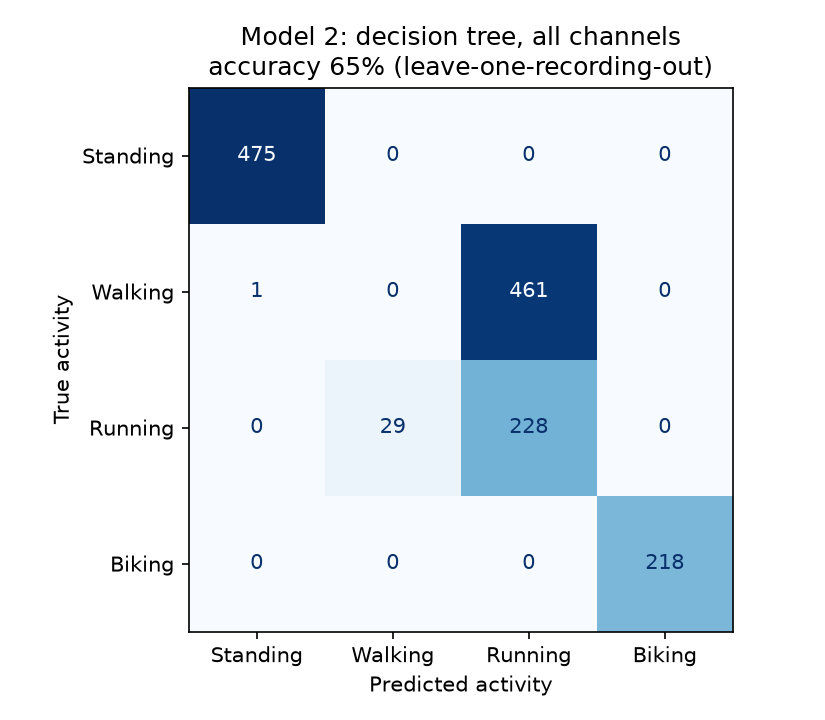
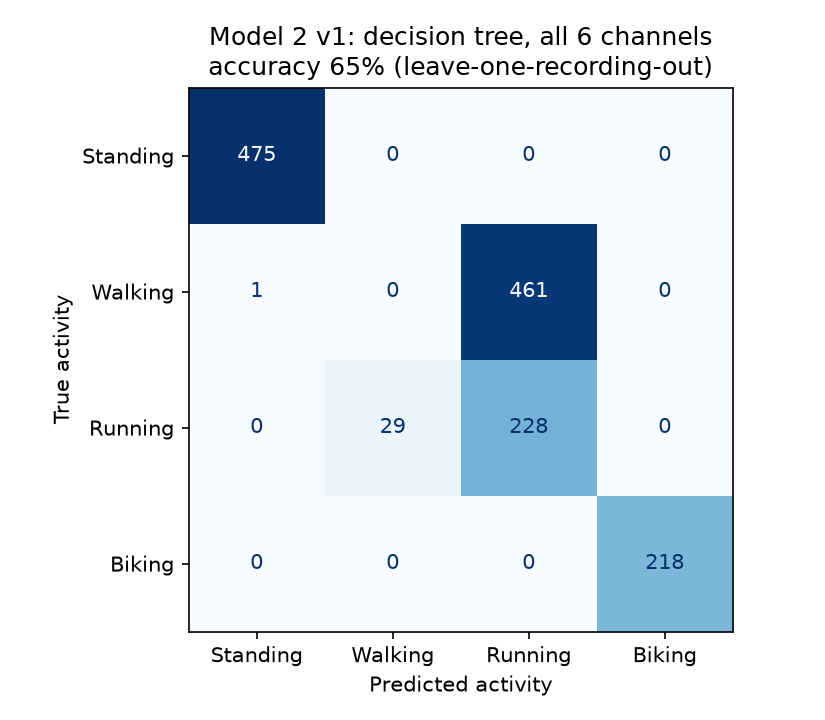
Gait Identifier: Model 2 v2 with tilt-free magnitude features
v2 uses acceleration and rotation magnitudes only (9 features).
Leave-one-recording-out 88.2%, vs 79.8% for Model 1 and 65.2% for
v1, which is kept for comparison. Results in training/results_v2.md.

Changed region(s): [[0.2424, 0.0306, 0.8788, 0.0611]]

diff --git a/Mohammed's Projects/Gait Identifier/training/train.py b/Mohammed's Projects/Gait Identifier/training/train.py
@@ -1,15 +1,18 @@
-"""Train and test the two gait models on the laptop.
+"""Train and test the gait models on the laptop.
 
     python train.py
 
 1. Loads every CSV in ../data/raw and cuts it into 2 s windows (see gait_model.py).
 2. Model 1 (one direction): the peak |acceleration| on ONE axis, split into
    activities by up to 3 thresholds. Tries ax, ay and az and keeps the best.
-3. Model 2 (all IMU outputs): 30 features (mean, std, min, max, dominant
-   frequency for each of the 6 channels) fed to a decision tree, max depth 4.
-4. Tests both with leave-one-recording-out: train on 11 recordings, test on the
-   one left out, repeat for all 12. Windows from the same recording overlap and
-   look alike, so testing on random windows would be cheating.
+3. Model 2 (decision tree, max depth 4), in two versions:
+   v1: 30 features (mean, std, min, max, dominant frequency for each of the
+       6 channels). Kept for comparison; it turned out to learn the board's tilt.
+   v2: 9 tilt-free features from the total acceleration and total rotation
+       (see gait_model.magnitude_features).
+4. Tests every model with leave-one-recording-out: train on 11 recordings, test
+   on the one left out, repeat for all 12. Windows from the same recording
+   overlap and look alike, so testing on random windows would be cheating.
 5. Saves figures to ../figures and the trained models (as JSON) to ../models.
 """
 import json
@@ -31,6 +34,14 @@ MODELS_DIR = PROJECT / "models"
 
 # Colors for the 4 activities (same order as gm.ACTIVITIES) in every figure
 COLORS = ["#4C78A8", "#59A14F", "#E15759", "#F28E2B"]
+
+# The two feature versions for Model 2. v1 keeps its original file names.
+MODEL2_VERSIONS = {
+    "v1": {"names": gm.feature_names(), "features": gm.all_features, "suffix": "",
+           "title": "Model 2 v1: decision tree, all 6 channels"},
+    "v2": {"names": gm.feature_names_v2(), "features": gm.magnitude_features, "suffix": "_v2",
+           "title": "Model 2 v2: decision tree, tilt-free magnitudes"},
+}
 
 
 # ---- 1. Load the data ---------------------------------------------------
@@ -147,14 +158,45 @@ def save_peak_histogram(peaks, y, axis, thresholds, classes):
     plt.close(fig)
 
 
-def save_tree_plot(tree, names):
+def save_tree_plot(tree, names, title, filename):
     fig, ax = plt.subplots(figsize=(22, 10))
     plot_tree(tree, feature_names=names, class_names=list(tree.classes_), filled=True,
               impurity=False, proportion=True, rounded=True, fontsize=8, ax=ax)
-    ax.set_title("Model 2: decision tree on all 6 IMU channels (max depth 4)")
+    ax.set_title(title)
     fig.tight_layout()
-    fig.savefig(FIGURES_DIR / "model2_decision_tree.png", dpi=150)
+    fig.savefig(FIGURES_DIR / filename, dpi=150)
     plt.close(fig)
+
+
+# ---- Model 2 (either version) -------------------------------------------
+def train_model2(version, windows, y, recording_ids):
+    """Test one Model 2 version (leave-one-recording-out), then train it on all
+    windows and save its JSON, tree plot and confusion matrix."""
+    setup = MODEL2_VERSIONS[version]
+    names, suffix = setup["names"], setup["suffix"]
+    print(f"\n{setup['title']} ({len(names)} features)")
+    X = np.array([setup["features"](w) for w in windows])
+    predictions = leave_one_recording_out(new_model2, X, y, recording_ids)
+    accuracy = accuracy_score(y, predictions)
+    print(f"  accuracy: {accuracy:.1%}")
+
+    # Final model: train on ALL windows (testing is already done above)
+    model = new_model2().fit(X, y)
+    model_json = {"model": "tree", "feature_set": version, "features": names,
+                  "rule": "at each node: feature <= threshold -> left, else right",
+                  **window_settings(), "tree": tree_to_dict(model, names)}
+    (MODELS_DIR / f"model2_tree{suffix}.json").write_text(json.dumps(model_json, indent=2))
+    used = [names[i] for i in np.argsort(-model.feature_importances_) if model.feature_importances_[i] > 0]
+    print("  features the final tree uses (most important first):", ", ".join(used))
+
+    # Check: the JSON file must give exactly the same answers as scikit-learn
+    from_json = [gm.predict_tree_model(model_json, w) for w in windows]
+    assert list(model.predict(X)) == from_json, f"Model 2 {version} JSON disagrees with sklearn"
+
+    cm = save_confusion_matrix(y, predictions, setup["title"], f"model2_confusion_matrix{suffix}.png")
+    save_tree_plot(model, names, f"{setup['title']} (max depth 4)", f"model2_decision_tree{suffix}.png")
+    return {"name": f"Model 2 {version}", "features": f"{len(names)} features",
+            "accuracy": accuracy, "cm": cm, "used": used}
 
 
 # ---- Summary helpers ----------------------------------------------------
@@ -203,54 +245,40 @@ def main():
                    **window_settings()}
     (MODELS_DIR / "model1_thresholds.json").write_text(json.dumps(model1_json, indent=2))
     print("  thresholds (g):", ", ".join(f"{t:.3f}" for t in thresholds), "->", " | ".join(classes))
-
-    # ---- Model 2: 30 features, depth-4 tree ----
-    print("\nModel 2: decision tree on all 6 channels")
-    names = gm.feature_names()
-    X = np.array([gm.all_features(w) for w in windows])
-    predictions2 = leave_one_recording_out(new_model2, X, y, recording_ids)
-    accuracy2 = accuracy_score(y, predictions2)
-    print(f"  accuracy: {accuracy2:.1%}")
-
-    model2 = new_model2().fit(X, y)
-    model2_json = {"model": "tree", "features": names,
-                   "rule": "at each node: feature <= threshold -> left, else right",
-                   **window_settings(), "tree": tree_to_dict(model2, names)}
-    (MODELS_DIR / "model2_tree.json").write_text(json.dumps(model2_json, indent=2))
-    used = [names[i] for i in np.argsort(-model2.feature_importances_) if model2.feature_importances_[i] > 0]
-    print("  features the final tree uses (most important first):", ", ".join(used))
-
-    # Check: the JSON files must give exactly the same answers as scikit-learn
     json1 = [gm.predict_threshold_model(model1_json, w) for w in windows]
-    json2 = [gm.predict_tree_model(model2_json, w) for w in windows]
     assert list(model1.predict(peaks.reshape(-1, 1))) == json1, "Model 1 JSON disagrees with sklearn"
-    assert list(model2.predict(X)) == json2, "Model 2 JSON disagrees with sklearn"
-    print("\nSaved models/model1_thresholds.json and models/model2_tree.json "
-          "(checked: same predictions as scikit-learn)")
-
-    # ---- Figures ----
     cm1 = save_confusion_matrix(y, best["predictions"], f"Model 1: peak |{axis}| thresholds",
                                 "model1_confusion_matrix.png")
-    cm2 = save_confusion_matrix(y, predictions2, "Model 2: decision tree, all channels",
-                                "model2_confusion_matrix.png")
     save_peak_histogram(peaks, y, axis, thresholds, classes)
-    save_tree_plot(model2, names)
-    print("Saved 4 figures to figures/")
 
-    for title, cm in [("Model 1", cm1), ("Model 2", cm2)]:
-        print(f"\n{title} confusion matrix (rows = true, columns = predicted):")
+    # ---- Model 2: both feature versions ----
+    results = [{"name": "Model 1", "features": f"peak |{axis}|",
+                "accuracy": best["accuracy"], "cm": cm1}]
+    results += [train_model2(version, windows, y, recording_ids) for version in MODEL2_VERSIONS]
+    print("\nSaved the models to models/ (checked: same predictions as scikit-learn) "
+          "and the figures to figures/")
+
+    for r in results:
+        print(f"\n{r['name']} confusion matrix (rows = true, columns = predicted):")
         print("           " + "".join(f"{a[:5]:>7s}" for a in gm.ACTIVITIES))
-        for activity, row in zip(gm.ACTIVITIES, cm):
+        for activity, row in zip(gm.ACTIVITIES, r["cm"]):
             print(f"  {activity:9s}" + "".join(f"{n:7d}" for n in row))
 
+    # ---- Comparison table: overall accuracy and accuracy per activity ----
+    print("\n==== Comparison (leave-one-recording-out) ====")
+    print(f"{'Model':12s} {'Features':14s} {'Accuracy':>8s}" + "".join(f"{a:>10s}" for a in gm.ACTIVITIES))
+    for r in results:
+        per_activity = r["cm"].diagonal() / r["cm"].sum(axis=1)
+        print(f"{r['name']:12s} {r['features']:14s} {r['accuracy']:8.1%}"
+              + "".join(f"{p:10.0%}" for p in per_activity))
+
     # ---- Plain-English summary ----
-    better, worse = ("Model 2", "Model 1") if accuracy2 >= best["accuracy"] else ("Model 1", "Model 2")
+    winner = max(results, key=lambda r: r["accuracy"])
     print("\n==== Summary ====")
-    print(f"{better} is better: Model 1 got {best['accuracy']:.0%} and Model 2 got {accuracy2:.0%} "
-          f"on recordings they never saw.")
-    print(f"Model 1 mixes up: {describe_mixups(cm1)}.")
-    print(f"Model 2 mixes up: {describe_mixups(cm2)}.")
-    print(f"\nWhy: Model 1 only knows how hard the hardest jolt on {axis} was. Peaks per activity "
+    print(f"{winner['name']} is best, at {winner['accuracy']:.0%} on recordings it never saw.")
+    for r in results:
+        print(f"{r['name']} mixes up: {describe_mixups(r['cm'])}.")
+    print(f"\nModel 1 only knows how hard the hardest jolt on {axis} was. Peaks per activity "
           f"(middle 80% of windows):")
     for activity in gm.ACTIVITIES:
         lo, hi = np.percentile(peaks[y == activity], [10, 90])
@@ -259,12 +287,12 @@ def main():
           + ("" if len(classes) == len(gm.ACTIVITIES) else
              f", so {', '.join(a for a in gm.ACTIVITIES if a not in classes)} never even gets a band")
           + ".")
-    print(f"Model 2 sees much more, but its top features ({', '.join(used[:3])}) include the "
-          "accelerometer mean/min/max, which mostly measure TILT: which way gravity points, i.e. "
-          "how the board was strapped on that day. With only a few recordings per activity, a "
-          "held-out recording strapped on at a new angle looks like whichever activity was "
-          "recorded at that angle. More recordings (strapped on slightly differently each time) "
-          "or features that ignore tilt (std, dominant frequency, gyro) would fix this.")
+    v1, v2 = results[1], results[2]
+    print(f"Model 2 v1's top features ({', '.join(v1['used'][:3])}) include the accelerometer "
+          "mean/min/max, which mostly measure TILT: which way gravity points, i.e. how the board "
+          "was strapped on that day. A held-out recording strapped on at a new angle looks like "
+          "whichever activity was recorded at that angle.")
+    print(f"Model 2 v2 only sees tilt-free magnitudes. Its tree uses: {', '.join(v2['used'])}.")
 
 
 if __name__ == "__main__":

diff --git a/Mohammed's Projects/Gait Identifier/training/gait_model.py b/Mohammed's Projects/Gait Identifier/training/gait_model.py
@@ -20,7 +20,8 @@ WINDOW_SAMPLES = 200     # one window = 2 seconds of data
 STEP_SAMPLES = 50        # slide the window forward 0.5 s at a time (windows overlap)
 
 CHANNELS = ["ax", "ay", "az", "gx", "gy", "gz"]   # the 6 IMU outputs, in CSV order
-STATS = ["mean", "std", "min", "max", "dom_freq"]  # Model 2's 5 numbers per channel
+STATS = ["mean", "std", "min", "max", "dom_freq"]  # Model 2 v1's 5 numbers per channel
+MAGNITUDE_STATS = ["mean", "std", "max", "dom_freq"]  # Model 2 v2's 4 numbers per magnitude
 ACTIVITIES = ["Standing", "Walking", "Running", "Biking"]  # fixed order for tables/plots
 
 
@@ -60,12 +61,12 @@ def dominant_frequency(signal):
 
 
 def feature_names():
-    """Names of Model 2's 30 features, e.g. "ax_mean", "gz_dom_freq"."""
+    """Names of Model 2 v1's 30 features, e.g. "ax_mean", "gz_dom_freq"."""
     return [f"{c}_{s}" for c in CHANNELS for s in STATS]
 
 
 def all_features(window):
-    """Model 2's features: mean, std, min, max and dominant frequency for each
+    """Model 2 v1's features: mean, std, min, max and dominant frequency for each
     of the 6 channels (30 numbers), in the same order as feature_names()."""
     values = []
     for i in range(len(CHANNELS)):
@@ -74,6 +75,40 @@ def all_features(window):
                    float(np.min(signal)), float(np.max(signal)),
                    dominant_frequency(signal)]
     return values
+
+
+def feature_names_v2():
+    """Names of Model 2 v2's 9 features, e.g. "acc_mag_std", "gyro_top_axis_dom_freq"."""
+    return ([f"acc_mag_{s}" for s in MAGNITUDE_STATS]
+            + [f"gyro_mag_{s}" for s in MAGNITUDE_STATS]
+            + ["gyro_top_axis_dom_freq"])
+
+
+def magnitude_features(window):
+    """Model 2 v2's features, which don't care how the board is tilted.
+
+    Magnitude = the length of the (x, y, z) arrow: sqrt(x^2 + y^2 + z^2).
+    Turning the board changes how that arrow splits across x, y and z, but
+    not its length. Standing still, the acceleration magnitude is about 1 g
+    (just gravity) whichever way the board faces.
+
+    For both magnitudes: mean, std, max and dominant frequency (8 numbers).
+    Plus one more: the rhythm of whichever gyro axis swings the most in this
+    window (a magnitude can repeat at double the real rhythm, because swinging
+    forward and swinging back both make it big)."""
+    acc_mag = np.linalg.norm(window[:, 0:3], axis=1)   # ax, ay, az -> one number per sample
+    gyro_mag = np.linalg.norm(window[:, 3:6], axis=1)  # gx, gy, gz -> one number per sample
+    values = []
+    for signal in (acc_mag, gyro_mag):
+        values += [float(np.mean(signal)), float(np.std(signal)),
+                   float(np.max(signal)), dominant_frequency(signal)]
+    busiest = np.argmax(np.std(window[:, 3:6], axis=0))  # 0 = gx, 1 = gy, 2 = gz
+    values.append(dominant_frequency(window[:, 3 + busiest]))
+    return values
+
+
+# Which feature function goes with which saved tree ("feature_set" in its JSON)
+FEATURE_SETS = {"v1": all_features, "v2": magnitude_features}
 
 
 # ---- Running a saved model ---------------------------------------------
@@ -94,9 +129,10 @@ def predict_threshold_model(model, window):
 
 
 def predict_tree_model(model, window):
-    """Model 2: start at the top of the tree and follow the questions down
-    ("is feature <= threshold?" yes -> left, no -> right) until a leaf."""
-    features = dict(zip(model["features"], all_features(window)))
+    """Model 2 (v1 or v2): start at the top of the tree and follow the questions
+    down ("is feature <= threshold?" yes -> left, no -> right) until a leaf."""
+    compute = FEATURE_SETS[model.get("feature_set", "v1")]
+    features = dict(zip(model["features"], compute(window)))
     node = model["tree"]
     while "activity" not in node:
         node = node["left"] if features[node["feature"]] <= node["threshold"] else node["right"]

diff --git a/Mohammed's Projects/Gait Identifier/training/results_v2.md b/Mohammed's Projects/Gait Identifier/training/results_v2.md
@@ -1,0 +1,69 @@
+# Gait Identifier: results, version 2
+
+Produced by `python train.py` (second version). Same data, windows and test as
+[results_v1.md](results_v1.md): 12 recordings, 1412 windows of 2 s sliding by 0.5 s,
+leave-one-recording-out. Model 1 and Model 2 v1 are unchanged; v2 is new.
+
+## What changed: tilt-free features
+
+Model 2 v1 failed because its accelerometer mean/min/max mostly measured tilt (how the board
+was strapped on), not the activity. v2 uses only the **magnitude** (the length of the
+x, y, z arrow, sqrt(x² + y² + z²)), which stays the same however the board is turned:
+
+- Total acceleration magnitude: mean, std, max, dominant frequency
+- Total rotation (gyro) magnitude: mean, std, max, dominant frequency
+- Dominant frequency of whichever gyro axis swings the most in the window
+
+9 features, same tree settings as v1 (max depth 4, `class_weight="balanced"`).
+
+## Accuracy
+
+| Model | Features | Accuracy | Standing | Walking | Running | Biking |
+|---|---|---|---|---|---|---|
+| Model 1 | peak \|ay\|, thresholds | 79.8% | 100% | 94% | 0% | 100% |
+| Model 2 v1 | 30 per-axis features | 65.2% | 100% | 0% | 89% | 100% |
+| **Model 2 v2** | **9 tilt-free features** | **88.2%** | 100% | 68% | 95% | 97% |
+
+## Confusion matrix, Model 2 v2 (rows = true activity, columns = predicted)
+
+| True \ Predicted | Standing | Walking | Running | Biking |
+|---|---|---|---|---|
+| Standing | 475 | 0 | 0 | 0 |
+| Walking | 1 | 315 | 145 | 1 |
+| Running | 0 | 12 | 244 | 1 |
+| Biking | 0 | 0 | 7 | 211 |
+
+Figures: `figures/model2_confusion_matrix_v2.png`, `figures/model2_decision_tree_v2.png`.
+
+## What the v2 tree uses
+
+Share of the tree's decisions per feature: acc_mag_std 59%, gyro_mag_mean 34%,
+gyro_mag_std 4%, gyro_mag_dom_freq 3%. Not used: acc_mag_mean, acc_mag_dom_freq and
+gyro_top_axis_dom_freq. Small splits on gyro_mag_max and acc_mag_max carry almost no weight.
+
+1. **Is the leg rotating?** gyro_mag_mean ≤ 21 °/s → Standing (Standing ≈ 4 °/s, everything
+   else ≥ 90 °/s).
+2. **How much does the total jolt vary?** acc_mag_std: about 0.25 g walking, 0.5 g running,
+   0.85 g biking.
+3. **Smooth or jerky rotation?** gyro_mag_std separates Biking (steady pedalling circle) from
+   Running (stop-start swing) when both jolt a lot.
+
+acc_mag_mean is unused because it is always about 1 g (gravity). Rhythm barely helps: a 2 s
+window only resolves frequency in 0.5 Hz steps, too coarse to tell step rates apart.
+
+## Per-recording accuracy, Model 2 v2
+
+| Recording | Correct |
+|---|---|
+| Biking 011031 / 011137 / 011306 / 011424 | 91% / 100% / 98% / 100% |
+| Running 005452 / 005641 / 010258 / 010411 | 58% / 98% / 97% / 99% |
+| Standing 004048 / 011929 | 100% / 100% |
+| Walking 004331 / 012135 | 95% / 41% |
+
+## Remaining weaknesses
+
+- **Walking called Running (31%)** comes almost entirely from Walking 012135. Its median
+  rotation is 124 °/s vs 91 °/s in the other walk, close to running (130–175 °/s). With only
+  two Walking recordings, holding one out leaves a single walk to learn from.
+- **Running 005452** is the short 15 s run, and it jolts as hard as biking.
+- Next step: more Walking recordings at different speeds.
